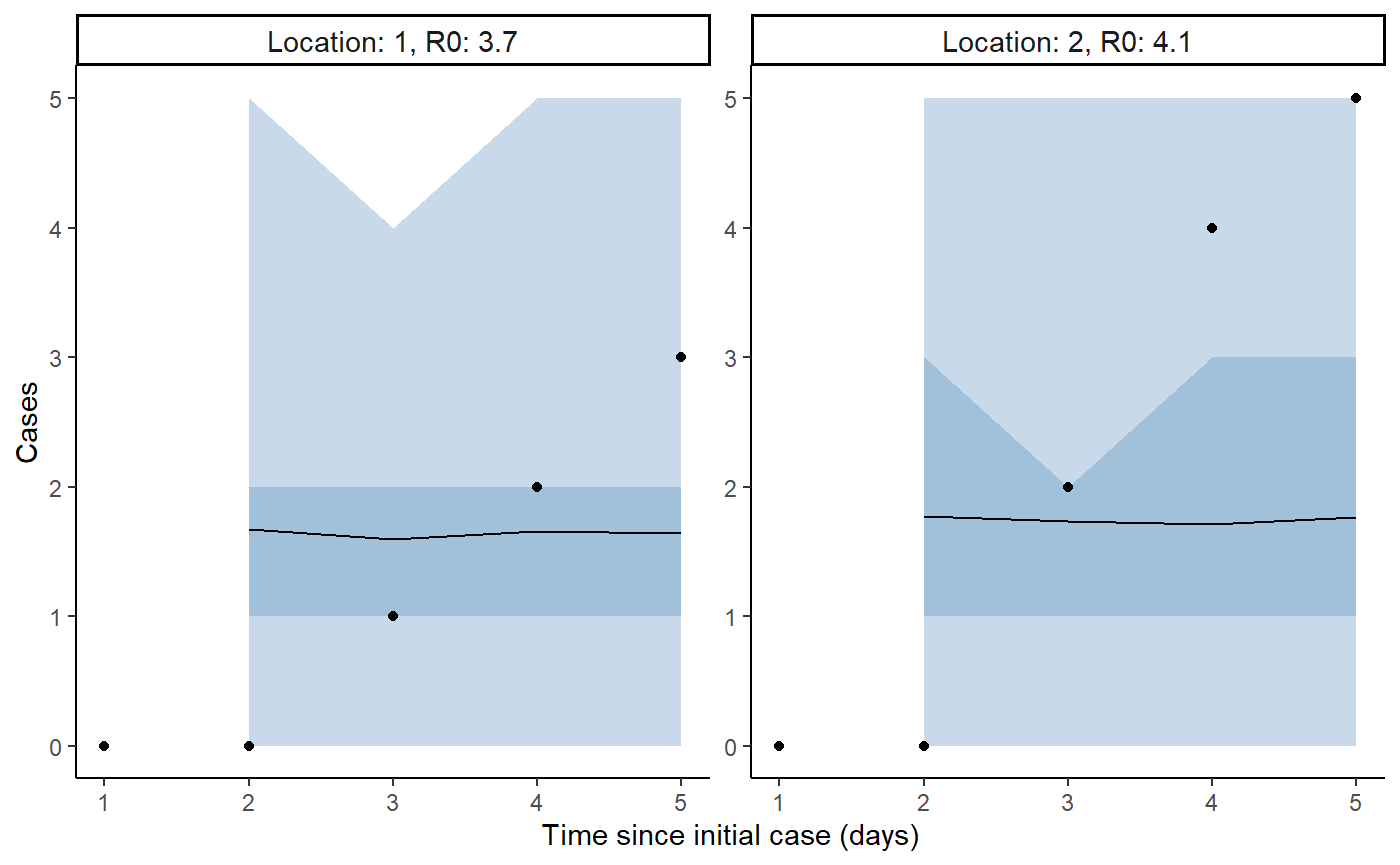
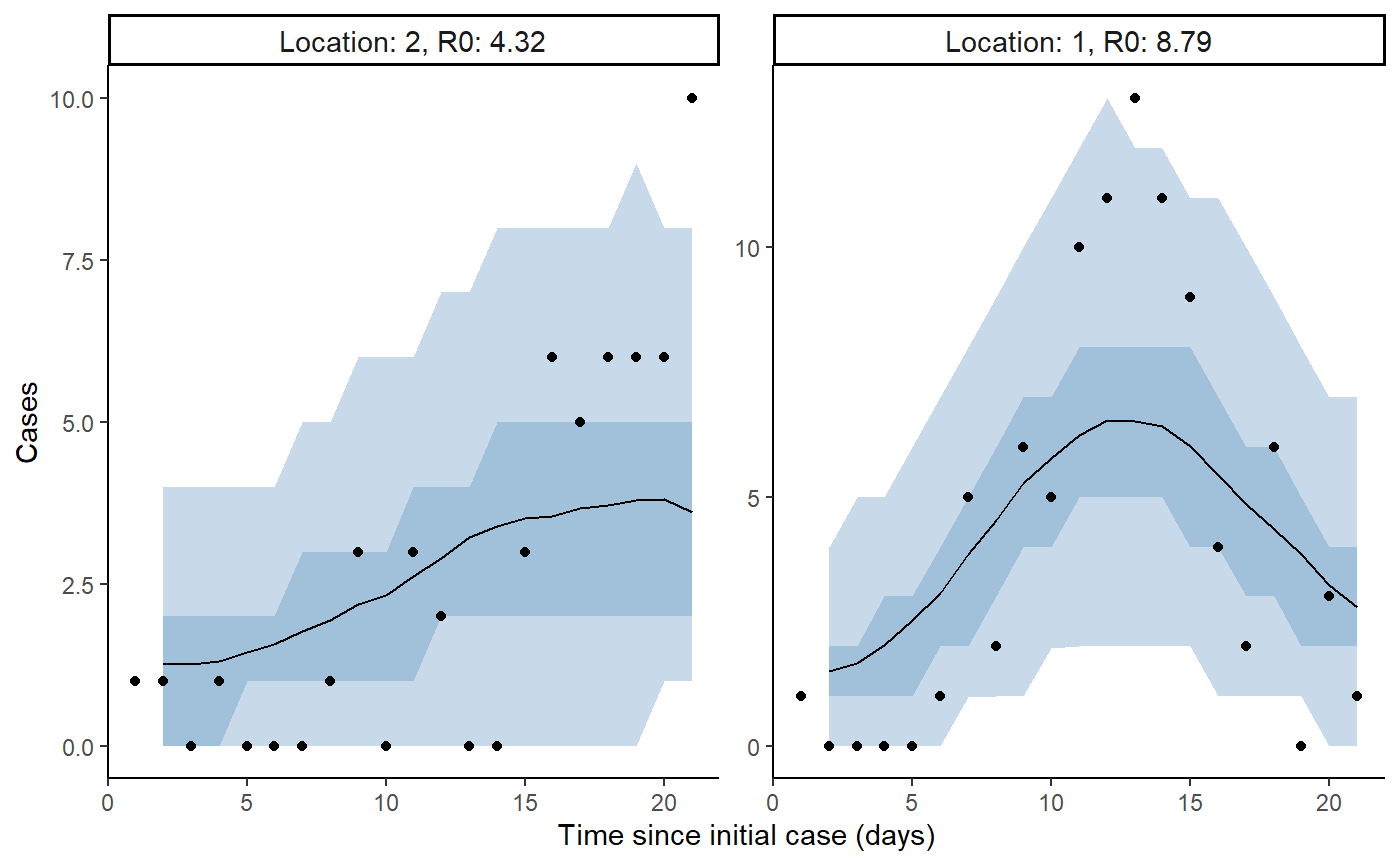
Re #1 Added change prior example in vignette.

diff --git a/docs/articles/introduction_to_fitting.html b/docs/articles/introduction_to_fitting.html
@@ -98,9 +98,14 @@
 <p>The package will expect the data in a certain format, such as the following,</p>
 <div class="sourceCode" id="cb2"><pre class="downlit sourceCode r">
 <code class="sourceCode R"><span class="co"># maximum time</span>
-<span class="va">tmax</span> <span class="op">&lt;-</span> <span class="fl">5</span>
+<span class="va">tmax</span> <span class="op">&lt;-</span> <span class="fl">21</span>
+<span class="co"># number of outbreaks</span>
 <span class="va">n_outbreaks</span> <span class="op">&lt;-</span> <span class="fl">2</span>
-<span class="va">outbreak_cases</span> <span class="op">&lt;-</span> <span class="fu"><a href="https://rdrr.io/r/base/matrix.html">matrix</a></span><span class="op">(</span><span class="fu"><a href="https://rdrr.io/r/base/c.html">c</a></span><span class="op">(</span><span class="fl">0</span>,<span class="fl">0</span>,<span class="fl">1</span>,<span class="fl">2</span>,<span class="fl">3</span>,<span class="fl">0</span>,<span class="fl">0</span>,<span class="fl">2</span>,<span class="fl">4</span>,<span class="fl">5</span><span class="op">)</span>,ncol<span class="op">=</span><span class="fl">2</span><span class="op">)</span>
+<span class="co"># number of daily cases per outbreak</span>
+<span class="va">outbreak_cases</span> <span class="op">&lt;-</span> <span class="fu"><a href="https://rdrr.io/r/base/matrix.html">matrix</a></span><span class="op">(</span><span class="fu"><a href="https://rdrr.io/r/base/c.html">c</a></span><span class="op">(</span><span class="fl">1</span>,<span class="fl">0</span>,<span class="fl">0</span>,<span class="fl">0</span>,<span class="fl">0</span>,<span class="fl">1</span>,<span class="fl">5</span>,<span class="fl">2</span>,<span class="fl">6</span>,<span class="fl">5</span>,<span class="fl">10</span>,<span class="fl">11</span>,<span class="fl">13</span>,<span class="fl">11</span>,<span class="fl">9</span>,<span class="fl">4</span>,<span class="fl">2</span>,<span class="fl">6</span>,<span class="fl">0</span>,<span class="fl">3</span>,<span class="fl">1</span>,
+                           <span class="fl">1</span>,<span class="fl">1</span>,<span class="fl">0</span>,<span class="fl">1</span>,<span class="fl">0</span>,<span class="fl">0</span>,<span class="fl">0</span>,<span class="fl">1</span>,<span class="fl">3</span>,<span class="fl">0</span>,<span class="fl">3</span>,<span class="fl">2</span>,<span class="fl">0</span>,<span class="fl">0</span>,<span class="fl">3</span>,<span class="fl">6</span>,<span class="fl">5</span>,<span class="fl">6</span>,<span class="fl">6</span>,<span class="fl">6</span>,<span class="fl">10</span>
+                           <span class="op">)</span>,ncol<span class="op">=</span><span class="fl">2</span><span class="op">)</span>
+<span class="co"># number of susceptible individuals by location</span>
 <span class="va">outbreak_sizes</span> <span class="op">&lt;-</span> <span class="fu"><a href="https://rdrr.io/r/base/c.html">c</a></span><span class="op">(</span><span class="fl">100</span>,<span class="fl">100</span><span class="op">)</span></code></pre></div>
 </div>
 <div id="constructing-priors" class="section level2">
@@ -123,106 +128,9 @@
 <span class="va">fit</span> <span class="op">&lt;-</span> <span class="fu">cr0eso</span><span class="fu">::</span><span class="fu"><a href="../reference/seir_model_fit.html">seir_model_fit</a></span><span class="op">(</span><span class="va">tmax</span>,<span class="va">n_outbreaks</span>,<span class="va">outbreak_cases</span>,<span class="va">outbreak_sizes</span>,
                        intervention_switch <span class="op">=</span> <span class="cn">FALSE</span>,
                        priors <span class="op">=</span> <span class="va">new_prior_list</span><span class="op">)</span>
-<span class="co">#&gt; </span>
-<span class="co">#&gt; SAMPLING FOR MODEL 'hierarchical_SEIR_incidence_model' NOW (CHAIN 1).</span>
-<span class="co">#&gt; Chain 1: </span>
-<span class="co">#&gt; Chain 1: Gradient evaluation took 0.001 seconds</span>
-<span class="co">#&gt; Chain 1: 1000 transitions using 10 leapfrog steps per transition would take 10 seconds.</span>
-<span class="co">#&gt; Chain 1: Adjust your expectations accordingly!</span>
-<span class="co">#&gt; Chain 1: </span>
-<span class="co">#&gt; Chain 1: </span>
-<span class="co">#&gt; Chain 1: Iteration:   1 / 600 [  0%]  (Warmup)</span>
-<span class="co">#&gt; Chain 1: Iteration:  60 / 600 [ 10%]  (Warmup)</span>
-<span class="co">#&gt; Chain 1: Iteration: 120 / 600 [ 20%]  (Warmup)</span>
-<span class="co">#&gt; Chain 1: Iteration: 180 / 600 [ 30%]  (Warmup)</span>
-<span class="co">#&gt; Chain 1: Iteration: 240 / 600 [ 40%]  (Warmup)</span>
-<span class="co">#&gt; Chain 1: Iteration: 300 / 600 [ 50%]  (Warmup)</span>
-<span class="co">#&gt; Chain 1: Iteration: 301 / 600 [ 50%]  (Sampling)</span>
-<span class="co">#&gt; Chain 1: Iteration: 360 / 600 [ 60%]  (Sampling)</span>
-<span class="co">#&gt; Chain 1: Iteration: 420 / 600 [ 70%]  (Sampling)</span>
-<span class="co">#&gt; Chain 1: Iteration: 480 / 600 [ 80%]  (Sampling)</span>
-<span class="co">#&gt; Chain 1: Iteration: 540 / 600 [ 90%]  (Sampling)</span>
-<span class="co">#&gt; Chain 1: Iteration: 600 / 600 [100%]  (Sampling)</span>
-<span class="co">#&gt; Chain 1: </span>
-<span class="co">#&gt; Chain 1:  Elapsed Time: 19.611 seconds (Warm-up)</span>
-<span class="co">#&gt; Chain 1:                2.441 seconds (Sampling)</span>
-<span class="co">#&gt; Chain 1:                22.052 seconds (Total)</span>
-<span class="co">#&gt; Chain 1: </span>
-<span class="co">#&gt; </span>
-<span class="co">#&gt; SAMPLING FOR MODEL 'hierarchical_SEIR_incidence_model' NOW (CHAIN 2).</span>
-<span class="co">#&gt; Chain 2: </span>
-<span class="co">#&gt; Chain 2: Gradient evaluation took 0.001 seconds</span>
-<span class="co">#&gt; Chain 2: 1000 transitions using 10 leapfrog steps per transition would take 10 seconds.</span>
-<span class="co">#&gt; Chain 2: Adjust your expectations accordingly!</span>
-<span class="co">#&gt; Chain 2: </span>
-<span class="co">#&gt; Chain 2: </span>
-<span class="co">#&gt; Chain 2: Iteration:   1 / 600 [  0%]  (Warmup)</span>
-<span class="co">#&gt; Chain 2: Iteration:  60 / 600 [ 10%]  (Warmup)</span>
-<span class="co">#&gt; Chain 2: Iteration: 120 / 600 [ 20%]  (Warmup)</span>
-<span class="co">#&gt; Chain 2: Iteration: 180 / 600 [ 30%]  (Warmup)</span>
-<span class="co">#&gt; Chain 2: Iteration: 240 / 600 [ 40%]  (Warmup)</span>
-<span class="co">#&gt; Chain 2: Iteration: 300 / 600 [ 50%]  (Warmup)</span>
-<span class="co">#&gt; Chain 2: Iteration: 301 / 600 [ 50%]  (Sampling)</span>
-<span class="co">#&gt; Chain 2: Iteration: 360 / 600 [ 60%]  (Sampling)</span>
-<span class="co">#&gt; Chain 2: Iteration: 420 / 600 [ 70%]  (Sampling)</span>
-<span class="co">#&gt; Chain 2: Iteration: 480 / 600 [ 80%]  (Sampling)</span>
-<span class="co">#&gt; Chain 2: Iteration: 540 / 600 [ 90%]  (Sampling)</span>
-<span class="co">#&gt; Chain 2: Iteration: 600 / 600 [100%]  (Sampling)</span>
-<span class="co">#&gt; Chain 2: </span>
-<span class="co">#&gt; Chain 2:  Elapsed Time: 6.156 seconds (Warm-up)</span>
-<span class="co">#&gt; Chain 2:                2.371 seconds (Sampling)</span>
-<span class="co">#&gt; Chain 2:                8.527 seconds (Total)</span>
-<span class="co">#&gt; Chain 2: </span>
-<span class="co">#&gt; </span>
-<span class="co">#&gt; SAMPLING FOR MODEL 'hierarchical_SEIR_incidence_model' NOW (CHAIN 3).</span>
-<span class="co">#&gt; Chain 3: </span>
-<span class="co">#&gt; Chain 3: Gradient evaluation took 0.001 seconds</span>
-<span class="co">#&gt; Chain 3: 1000 transitions using 10 leapfrog steps per transition would take 10 seconds.</span>
-<span class="co">#&gt; Chain 3: Adjust your expectations accordingly!</span>
-<span class="co">#&gt; Chain 3: </span>
-<span class="co">#&gt; Chain 3: </span>
-<span class="co">#&gt; Chain 3: Iteration:   1 / 600 [  0%]  (Warmup)</span>
-<span class="co">#&gt; Chain 3: Iteration:  60 / 600 [ 10%]  (Warmup)</span>
-<span class="co">#&gt; Chain 3: Iteration: 120 / 600 [ 20%]  (Warmup)</span>
-<span class="co">#&gt; Chain 3: Iteration: 180 / 600 [ 30%]  (Warmup)</span>
-<span class="co">#&gt; Chain 3: Iteration: 240 / 600 [ 40%]  (Warmup)</span>
-<span class="co">#&gt; Chain 3: Iteration: 300 / 600 [ 50%]  (Warmup)</span>
-<span class="co">#&gt; Chain 3: Iteration: 301 / 600 [ 50%]  (Sampling)</span>
-<span class="co">#&gt; Chain 3: Iteration: 360 / 600 [ 60%]  (Sampling)</span>
-<span class="co">#&gt; Chain 3: Iteration: 420 / 600 [ 70%]  (Sampling)</span>
-<span class="co">#&gt; Chain 3: Iteration: 480 / 600 [ 80%]  (Sampling)</span>
-<span class="co">#&gt; Chain 3: Iteration: 540 / 600 [ 90%]  (Sampling)</span>
-<span class="co">#&gt; Chain 3: Iteration: 600 / 600 [100%]  (Sampling)</span>
-<span class="co">#&gt; Chain 3: </span>
-<span class="co">#&gt; Chain 3:  Elapsed Time: 4.534 seconds (Warm-up)</span>
-<span class="co">#&gt; Chain 3:                2.309 seconds (Sampling)</span>
-<span class="co">#&gt; Chain 3:                6.843 seconds (Total)</span>
-<span class="co">#&gt; Chain 3: </span>
-<span class="co">#&gt; </span>
-<span class="co">#&gt; SAMPLING FOR MODEL 'hierarchical_SEIR_incidence_model' NOW (CHAIN 4).</span>
-<span class="co">#&gt; Chain 4: </span>
-<span class="co">#&gt; Chain 4: Gradient evaluation took 0 seconds</span>
-<span class="co">#&gt; Chain 4: 1000 transitions using 10 leapfrog steps per transition would take 0 seconds.</span>
-<span class="co">#&gt; Chain 4: Adjust your expectations accordingly!</span>
-<span class="co">#&gt; Chain 4: </span>
-<span class="co">#&gt; Chain 4: </span>
-<span class="co">#&gt; Chain 4: Iteration:   1 / 600 [  0%]  (Warmup)</span>
-<span class="co">#&gt; Chain 4: Iteration:  60 / 600 [ 10%]  (Warmup)</span>
-<span class="co">#&gt; Chain 4: Iteration: 120 / 600 [ 20%]  (Warmup)</span>
-<span class="co">#&gt; Chain 4: Iteration: 180 / 600 [ 30%]  (Warmup)</span>
-<span class="co">#&gt; Chain 4: Iteration: 240 / 600 [ 40%]  (Warmup)</span>
-<span class="co">#&gt; Chain 4: Iteration: 300 / 600 [ 50%]  (Warmup)</span>
-<span class="co">#&gt; Chain 4: Iteration: 301 / 600 [ 50%]  (Sampling)</span>
-<span class="co">#&gt; Chain 4: Iteration: 360 / 600 [ 60%]  (Sampling)</span>
-<span class="co">#&gt; Chain 4: Iteration: 420 / 600 [ 70%]  (Sampling)</span>
-<span class="co">#&gt; Chain 4: Iteration: 480 / 600 [ 80%]  (Sampling)</span>
-<span class="co">#&gt; Chain 4: Iteration: 540 / 600 [ 90%]  (Sampling)</span>
-<span class="co">#&gt; Chain 4: Iteration: 600 / 600 [100%]  (Sampling)</span>
-<span class="co">#&gt; Chain 4: </span>
-<span class="co">#&gt; Chain 4:  Elapsed Time: 20.691 seconds (Warm-up)</span>
-<span class="co">#&gt; Chain 4:                3.093 seconds (Sampling)</span>
-<span class="co">#&gt; Chain 4:                23.784 seconds (Total)</span>
-<span class="co">#&gt; Chain 4:</span></code></pre></div>
+<span class="co">#&gt; Warning: Tail Effective Samples Size (ESS) is too low, indicating posterior variances and tail quantiles may be unreliable.</span>
+<span class="co">#&gt; Running the chains for more iterations may help. See</span>
+<span class="co">#&gt; http://mc-stan.org/misc/warnings.html#tail-ess</span></code></pre></div>
 </div>
 <div id="plot-model-output" class="section level2">
 <h2 class="hasAnchor">

diff --git a/docs/reference/seir_model_fit.html b/docs/reference/seir_model_fit.html
@@ -136,7 +136,7 @@ various data elements and sample model.</p>
   <span class='va'>outbreak_sizes</span>,
   intervention_switch <span class='op'>=</span> <span class='cn'>TRUE</span>,
   multilevel_intervention <span class='op'>=</span> <span class='cn'>FALSE</span>,
-  prior_list <span class='op'>=</span> <span class='va'>prior_list</span>,
+  priors <span class='op'>=</span> <span class='va'>prior_list</span>,
   iter <span class='op'>=</span> <span class='fl'>600</span>
 <span class='op'>)</span></pre>
 
@@ -168,12 +168,12 @@ various data elements and sample model.</p>
       <td><p>Describes whether intervention occurs</p></td>
     </tr>
     <tr>
-      <th>prior_list</th>
-      <td><p>List of priors. See `prior_list`</p></td>
-    </tr>
-    <tr>
       <th>iter</th>
       <td><p>number of iterations of MCMC</p></td>
+    </tr>
+    <tr>
+      <th>prior_list</th>
+      <td><p>List of priors. See [prior_list]</p></td>
     </tr>
     </table>
 
@@ -211,9 +211,9 @@ various data elements and sample model.</p>
 #&gt; Chain 1: Iteration: 540 / 600 [ 90%]  (Sampling)
 #&gt; Chain 1: Iteration: 600 / 600 [100%]  (Sampling)
 #&gt; Chain 1: 
-#&gt; Chain 1:  Elapsed Time: 2.593 seconds (Warm-up)
-#&gt; Chain 1:                1.086 seconds (Sampling)
-#&gt; Chain 1:                3.679 seconds (Total)
+#&gt; Chain 1:  Elapsed Time: 2.567 seconds (Warm-up)
+#&gt; Chain 1:                1.085 seconds (Sampling)
+#&gt; Chain 1:                3.652 seconds (Total)
 #&gt; Chain 1: 
 #&gt; 
 #&gt; SAMPLING FOR MODEL 'hierarchical_SEIR_incidence_model' NOW (CHAIN 2).
@@ -236,9 +236,9 @@ various data elements and sample model.</p>
 #&gt; Chain 2: Iteration: 540 / 600 [ 90%]  (Sampling)
 #&gt; Chain 2: Iteration: 600 / 600 [100%]  (Sampling)
 #&gt; Chain 2: 
-#&gt; Chain 2:  Elapsed Time: 2.512 seconds (Warm-up)
-#&gt; Chain 2:                1.156 seconds (Sampling)
-#&gt; Chain 2:                3.668 seconds (Total)
+#&gt; Chain 2:  Elapsed Time: 2.501 seconds (Warm-up)
+#&gt; Chain 2:                1.15 seconds (Sampling)
+#&gt; Chain 2:                3.651 seconds (Total)
 #&gt; Chain 2: 
 #&gt; 
 #&gt; SAMPLING FOR MODEL 'hierarchical_SEIR_incidence_model' NOW (CHAIN 3).
@@ -261,9 +261,9 @@ various data elements and sample model.</p>
 #&gt; Chain 3: Iteration: 540 / 600 [ 90%]  (Sampling)
 #&gt; Chain 3: Iteration: 600 / 600 [100%]  (Sampling)
 #&gt; Chain 3: 
-#&gt; Chain 3:  Elapsed Time: 1.947 seconds (Warm-up)
-#&gt; Chain 3:                1.027 seconds (Sampling)
-#&gt; Chain 3:                2.974 seconds (Total)
+#&gt; Chain 3:  Elapsed Time: 1.956 seconds (Warm-up)
+#&gt; Chain 3:                1.025 seconds (Sampling)
+#&gt; Chain 3:                2.981 seconds (Total)
 #&gt; Chain 3: 
 #&gt; 
 #&gt; SAMPLING FOR MODEL 'hierarchical_SEIR_incidence_model' NOW (CHAIN 4).
@@ -286,9 +286,9 @@ various data elements and sample model.</p>
 #&gt; Chain 4: Iteration: 540 / 600 [ 90%]  (Sampling)
 #&gt; Chain 4: Iteration: 600 / 600 [100%]  (Sampling)
 #&gt; Chain 4: 
-#&gt; Chain 4:  Elapsed Time: 2.452 seconds (Warm-up)
-#&gt; Chain 4:                1.321 seconds (Sampling)
-#&gt; Chain 4:                3.773 seconds (Total)
+#&gt; Chain 4:  Elapsed Time: 2.43 seconds (Warm-up)
+#&gt; Chain 4:                1.314 seconds (Sampling)
+#&gt; Chain 4:                3.744 seconds (Total)
 #&gt; Chain 4: </div><div class='output co'>#&gt; <span class='warning'>Warning: Bulk Effective Samples Size (ESS) is too low, indicating posterior means and medians may be unreliable.</span>
 #&gt; <span class='warning'>Running the chains for more iterations may help. See</span>
 #&gt; <span class='warning'>http://mc-stan.org/misc/warnings.html#bulk-ess</span></div><div class='output co'>#&gt; <span class='warning'>Warning: Tail Effective Samples Size (ESS) is too low, indicating posterior variances and tail quantiles may be unreliable.</span>
